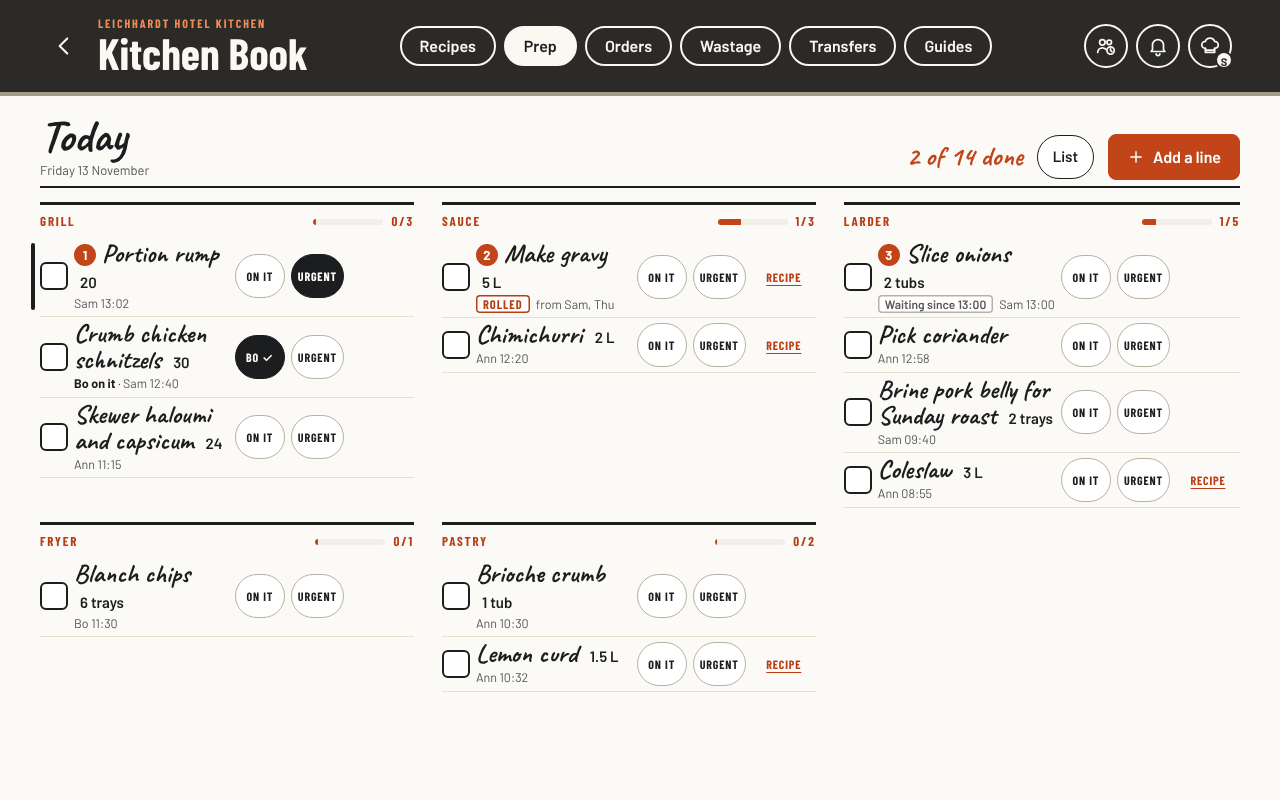
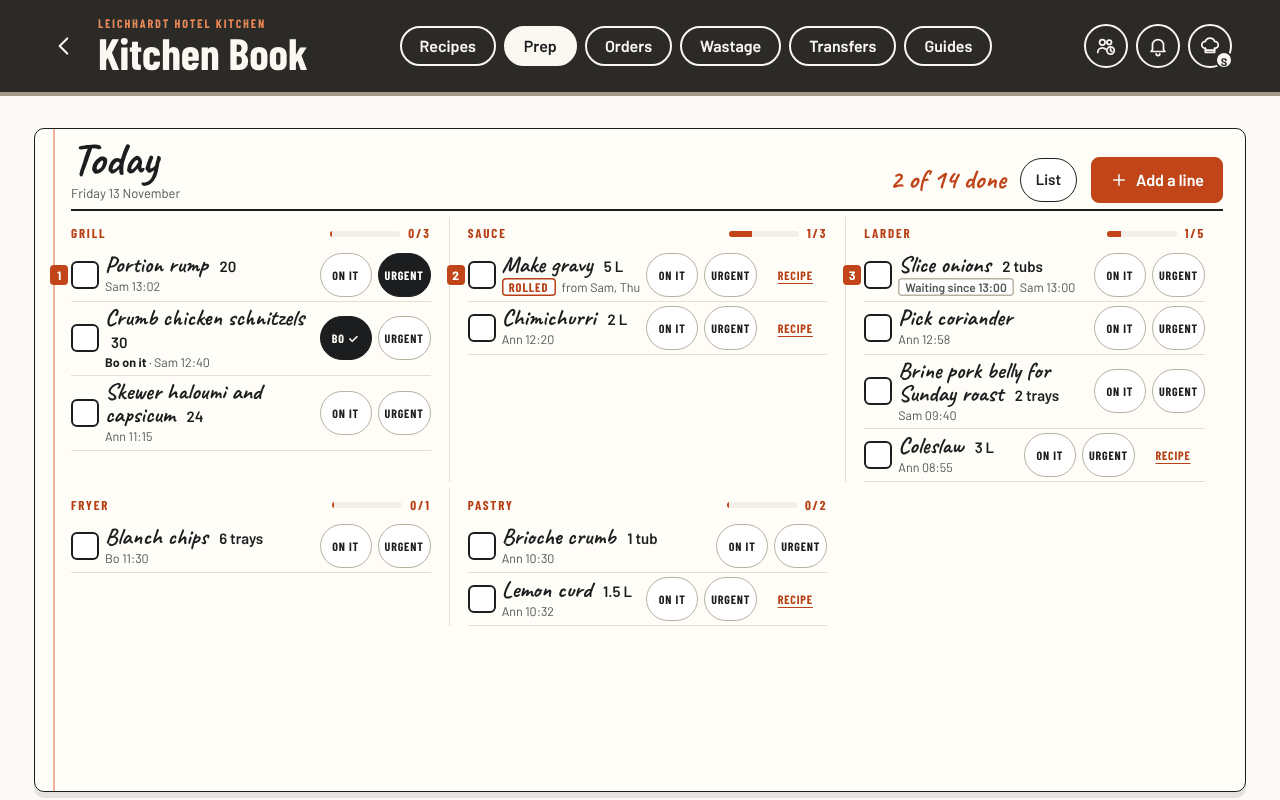
The wall board moves onto the notebook paper in the redesign
The head chef asked for the wall board on the shared kitchen tablet to have the
notebook look, like Prep. Today it is a flat page with columns.

- every-page.html: the wall board drawn as one ruled notebook page with the red
  margin and the handwritten title, a column for each section, the Urgent button
  and the section bars; long names fit on two lines.
- previews/s1-wall-1280.png: the new drawing.
- brief.md (step 1 in the Build table) and head-chef-decisions.md (8 Nov): the
  wall board in the notebook look.

Docs only.

Claude-Session: https://claude.ai/code/session_01JKvQbzqh1LVnLJfSMm7JLm

Changed region(s): [[0.0312, 0.1562, 0.9688, 0.625], [0.0312, 0.625, 0.6562, 0.875]]

diff --git a/docs/whole-app-redesign-options/every-page.html b/docs/whole-app-redesign-options/every-page.html
@@ -433,8 +433,16 @@ figcaption b { color: var(--ink); font-weight: 600; }
 .tb .m-nav { display: flex; gap: 6px; flex: 1; justify-content: center; }
 .tb .m-nav span { padding: 9px 13px; border-radius: var(--r-pick); border: 2px solid var(--bar-text); font: 600 15px/1 var(--body); }
 .tb .m-nav span.on { background: var(--bar-text); color: var(--ink); }
-.s1-wall { display: grid; grid-template-columns: repeat(3, 1fr); gap: 0 28px; }
-.s1-col { border-top: 3px solid var(--ink); margin-top: 14px; }
+.s1-wall { display: grid; grid-template-columns: repeat(3, 1fr); gap: 0; }
+.s1-col { padding: 0 18px; border-left: 1px solid var(--rule); margin-top: 6px; }
+.s1-col:nth-child(3n+1) { border-left: 0; padding-left: 0; }
+/* the wall board on the notebook paper (head chef, 8 Nov 2026): ruled page, the red margin, the handwritten title */
+.s1-wallnb { height: 664px; overflow: hidden; padding: 10px 22px 0 36px; }
+.s1-wallnb::before { left: 18px; }
+.s1-wallnb .m-r .m-n { left: -30px; }
+.s1-wall .m-t { font-size: 23px; }
+.s1-wall .m-on:empty { display: none; }
+.s1-wall .m-on { min-width: 52px; padding: 0 6px; }
 .s1-wall .m-r .m-link, .s1-wall .m-dots { display: none; }
 
 </style>
@@ -951,10 +959,10 @@ figcaption b { color: var(--ink); font-weight: 600; }
       '<div class="m-r done"><span class="m-box done">' + ic('tick', 18) + '</span><div class="m-w"><div class="m-t">Laksa paste <i>1 batch</i></div><div class="m-m">Ann 11:48</div></div></div><div class="m-r done"><span class="m-box done">' + ic('tick', 18) + '</span><div class="m-w"><div class="m-t">Wash bok choy</div><div class="m-m">Bo 10:02</div></div></div>' +
       '<div class="m-sec" style="margin-top:18px"><span>Your usual</span></div><div style="display:flex;flex-wrap:wrap;gap:8px">' + ['Slice onions 2 tubs', 'Make gravy 5 L', 'Portion rump 20', 'Coleslaw 3 L'].map(function (t) { return '<span class="e-chip">' + ic('plus', 16) + t + '</span>'; }).join('') + '</div></div></div></div></div>';
   } };
-  E['s1-wall-1280'] = { w: 1280, g: 'step1', cap: '<b>The wall board on the shared kitchen tablet.</b> As today: a column for each section, no tabs, List to go back. New: the Urgent button on every line (one tap, the tablet asks Who\'s on it as now for On it), and a bar in each column heading.', html: function () {
+  E['s1-wall-1280'] = { w: 1280, g: 'step1', cap: '<b>The wall board on the shared kitchen tablet, on the notebook paper</b> (head chef, 8 Nov 2026): one ruled page with the red margin and the handwritten title, a column for each section, no tabs, List to go back. New: the notebook look, the Urgent button on every line (one tap; the tablet asks Who\'s on it, as it does for On it), and a bar in each column heading.', html: function () {
     var nav = '<div class="m-nav">' + TABS.map(function (t) { return '<span class="' + (t[1] === 'Prep' ? 'on' : '') + '">' + t[1] + '</span>'; }).join('') + '</div>';
     return '<div class="lt rx">' + '<div class="m-top"><span class="m-back">' + ic('back', 26) + '</span><div class="m-brand"><small>Leichhardt Hotel Kitchen</small><b>Kitchen Book</b></div>' + nav + '<span class="m-chips"><span class="m-chip">' + ic('team') + '</span><span class="m-chip">' + ic('bell') + '</span><span class="m-chip">' + ic('hat') + '<span class="bdg">S</span></span></span></div>' +
-      '<div class="m-body" style="padding:20px 40px">' + s1Head(true, true).replace('<div class="m-nbh">', '<div class="m-nbh" style="border-bottom:2px solid var(--ink)">') + '<div class="s1-wall">' + wideRail(true) + '</div></div></div>';
+      '<div class="m-body" style="padding:18px 34px"><div class="m-nb s1-wallnb">' + s1Head(true, true) + '<div class="s1-wall">' + wideRail(true) + '</div></div></div></div>';
   } };
   var GROUPS = [
     ['step1', 'Step 1 at every size: Prep and Add a line', 'What step 1 builds, at every size, for the head chef to check before any code (8 Nov 2026): the phone and Add a line, a tablet, a laptop, and the wall board on the shared kitchen tablet. On a tablet and a laptop the lines are one row already today, so the change there is smaller: the Urgent button with its word, the chips on their own row with the day in the heading, and a bar in each section heading.'],

diff --git a/docs/head-chef-decisions.md b/docs/head-chef-decisions.md
@@ -3,7 +3,7 @@
 Moved out of `README.md` on 3 November 2026 so sessions can read it in parts (README had grown past 350 KB). Dated decisions about how the book should work: who may do what and what moved where. Newest first. Add a new decision at the top with its date.
 
 - **8 November 2026, a shorter CLAUDE.md.** The head chef looked at three outside tools sold as Claude token savers (Ponytail, Graphify, OmniRoute) and chose to install none of them. Instead the long rows in `CLAUDE.md` moved out: it loads in every session and every agent, and was 50 KB (about 12,000 tokens before any work). The full "which note to read" and "every file" tables, with their dates and chosen designs, are now in [the session map](session-map.md), word for word; `CLAUDE.md` keeps one short row per note and a short file list. A new note or file gets a short row there and its full row in the session map. See `CLAUDE.md`, Keeping usage down.
-- **8 November 2026, the whole book redesigned from seven apps.** The head chef asked for a new design for the whole book that learns from Linear, Things 3, Airbnb, Todoist, Flighty, Duolingo and Headspace, keeping every feature and the book's colours, and after three council rounds chose: **B's now and next home with the seasonal celebrations**; **admin B, the Inbox, with a dashboard**; every other page as drawn in round 3, with the council's fixes; the service view kept with dietaries; the drinks run restyled; Make it again stays (it means cook it again); **line words stay handwritten**; Cancel function at the end of the card; **Urgent in one tap** with a flag on every prep line; the start of shift sheet, the function band and the cut-off reminder bar all kept, in the new style (the band and the bar off Home, where the board shows them). Built in eight grouped steps in the recommended order, Prep and Add a line first, each its own pull request, once the head chef says go. See [the options brief](whole-app-redesign-options/brief.md), Chosen and Build.
+- **8 November 2026, the whole book redesigned from seven apps.** The head chef asked for a new design for the whole book that learns from Linear, Things 3, Airbnb, Todoist, Flighty, Duolingo and Headspace, keeping every feature and the book's colours, and after three council rounds chose: **B's now and next home with the seasonal celebrations**; **admin B, the Inbox, with a dashboard**; every other page as drawn in round 3, with the council's fixes; the service view kept with dietaries; the drinks run restyled; Make it again stays (it means cook it again); **line words stay handwritten**; Cancel function at the end of the card; **Urgent in one tap** with a flag on every prep line; the start of shift sheet, the function band and the cut-off reminder bar all kept, in the new style (the band and the bar off Home, where the board shows them); the wall board on the shared tablet in the notebook look. Built in eight grouped steps in the recommended order, Prep and Add a line first, each its own pull request, once the head chef says go. See [the options brief](whole-app-redesign-options/brief.md), Chosen and Build.
 - **8 November 2026, the night release window runs to 02:30.** Ready pull requests merge 15:00 to 16:30 and 22:30 to 02:30 every day (it ended at midnight). After service, so the reloads it causes cost almost nothing. `docs/auto-merge.md`.
 - **7 November 2026, chefs take a section, and split shifts.** The head chef and the sous chefs can put themselves on a section on Today's team (it starts on their role). Shifts run about 10:00 to 22:00 with proper split shifts, so a break of 2.5 to 4 hours is a split, shown with the time they are back; three breaks a shift; Spread them goes one at a time, two at a time or all together, and splits start all together. `docs/prep-book.md`, Today's team.
 - **7 November 2026, Today's team: shifts, sections and breaks.** The head chef asked for a morning step where the head chef or a sous chef (or the admin) puts the people working today on a shift, gives each a section on every shift and a break, and staff then see their day quietly; and for a chip next to the bell with a team icon. The service council said Build smaller (4 of 5) and scored three designs (A, chef tile and quiet lines, 16; B, morning roll call, 14; C, one team board, 6); for the chip, Build smaller (5 of 6). The head chef chose A with three pieces of B, and: no sheet that opens by itself (chefs get a Set today's team link under the done count and the chip); shifts set up in Admin, Kitchen, each with its own hours, the smoker shift one of them; a person's section follows the shift that is on, in a gap the next of their shifts, when two overlap the one that started last; cooks may change their own section mid-shift, and every section allocated or worked is logged and used for training (the Training opportunities, Who worked where, the skills matrix) and for section suggestions; breaks of 30, 45, 60, 90 or 120 minutes; staff see who is on break now and when they are back; the Team and clock icon; and a round chip for staff on phones too, once their day is set, orange from 30 minutes before their break and after a change, opening Your day (Now, Break, Later). Use it fills last week's team to check and never saves blind. See [Today's team](todays-team-options/brief.md).

diff --git a/docs/whole-app-redesign-options/brief.md b/docs/whole-app-redesign-options/brief.md
@@ -304,7 +304,7 @@ Eight steps, one pull request each, merged in the release windows, in this order
 
 | Step | What | Main files | State |
 | --- | --- | --- | --- |
-| 1 | Prep and Add a line: one-row lines with every marker, Urgent, Recipe and On it buttons, the Start here number in the margin, section chips and the day in the heading, section bars, your usual lines first in Add a line. On a tablet and a laptop the lines are one row today already; there the change is the Urgent button with its word, the chips row and the section bars, and the wall board gains Urgent and the bars | `js/prep.js`, `css/app.css` | Drawn at every size (8 Nov 2026: `every-page.html`, Step 1 at every size; `previews/s1-*.png` beside `today-prep-tablet-768.png` and `today-wall-1280.png`), waiting for the head chef's OK; code booked for Tue 10 Nov 09:00 |
+| 1 | Prep and Add a line: one-row lines with every marker, Urgent, Recipe and On it buttons, the Start here number in the margin, section chips and the day in the heading, section bars, your usual lines first in Add a line. On a tablet and a laptop the lines are one row today already; there the change is the Urgent button with its word, the chips row and the section bars, and the wall board moves onto the notebook paper (head chef, 8 Nov 2026: ruled page, red margin, handwritten title) and gains Urgent and the bars | `js/prep.js`, `css/app.css` | Drawn at every size (8 Nov 2026: `every-page.html`, Step 1 at every size; `previews/s1-*.png` beside `today-prep-tablet-768.png` and `today-wall-1280.png`), waiting for the head chef's OK; code booked for Tue 10 Nov 09:00 |
 | 2 | Home: the now and next board on the kraft board, with the celebrations; Coming up with festivals; only what is still to come; the start of shift sheet in the new style | `js/app.js`, `js/functions.js`, `css/app.css`, `js/seasonal/` | Not started |
 | 3 | Orders (supplier groups with time left, No supplier first), Supplier order as one card, Delivery received as arrivals with an empty reading; the cut-off reminder bar in the new style | `js/prep.js`, `js/suppliers.js`, `js/deliveries.js` | Not started |
 | 4 | Wastage (Make it again as today) and Transfers (each loan a card, Mark returned with Undo) | `js/prep.js`, `css/app.css` | Not started |
